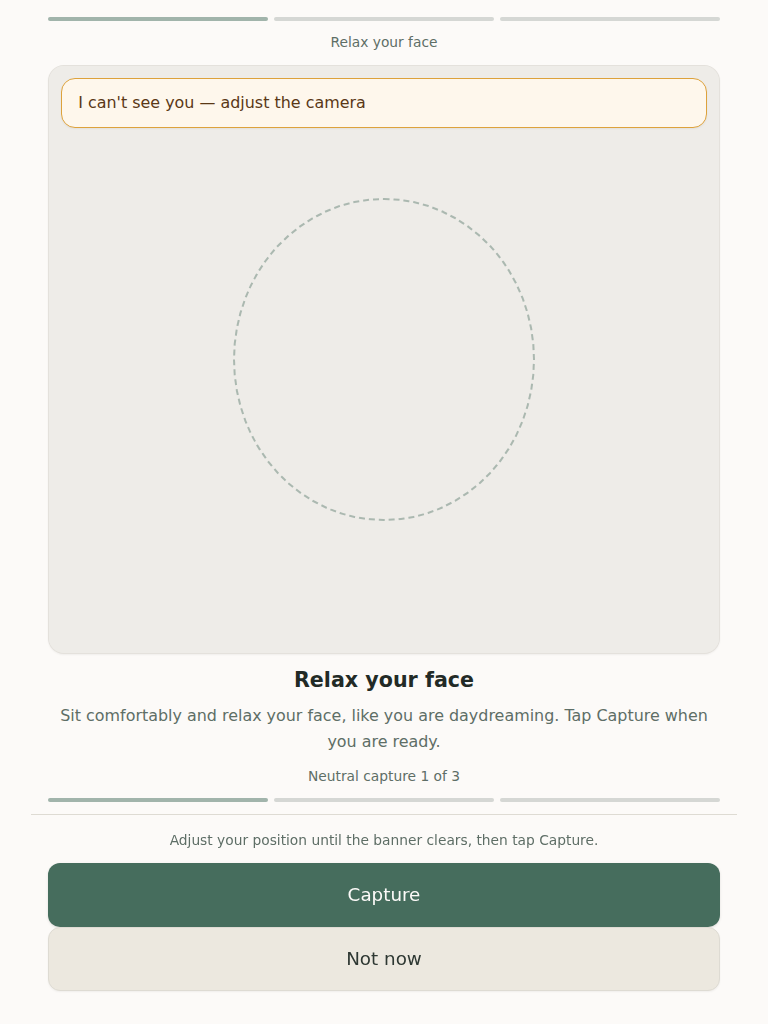
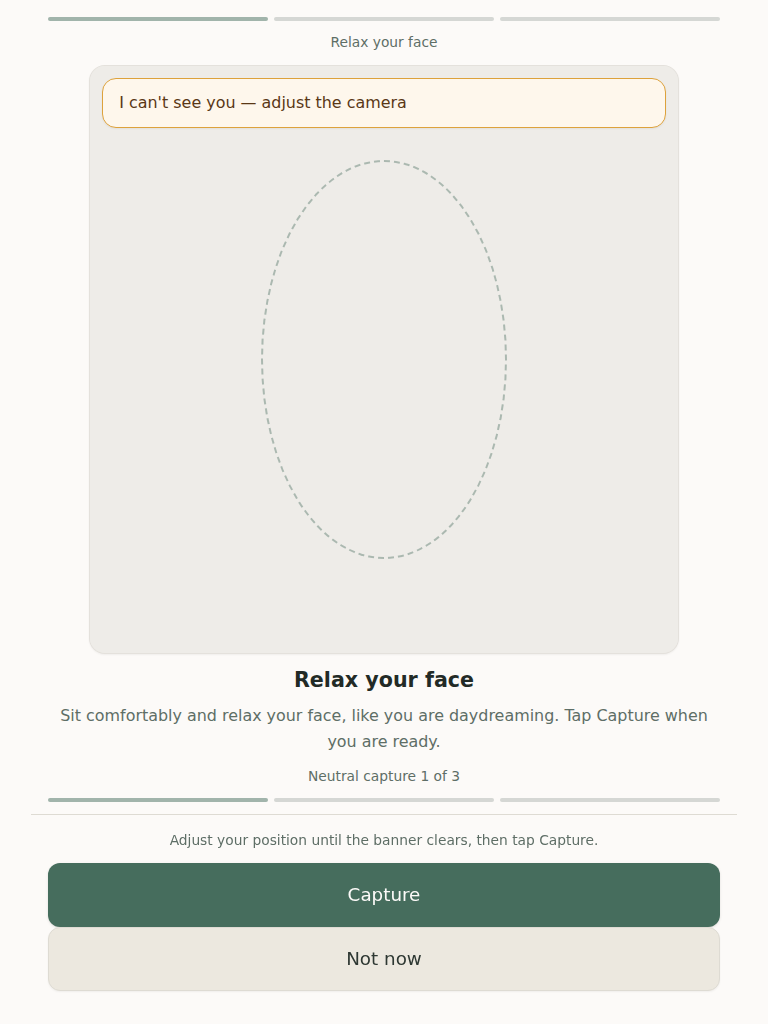
fix(craft): focus the capture frame

diff --git a/src/screens/calibration/CalibrationScreen.tsx b/src/screens/calibration/CalibrationScreen.tsx
@@ -357,17 +357,19 @@ export function CalibrationScreen() {
       className="mx-auto h-dvh max-w-standalone overflow-hidden py-xs sm:py-sm"
     >
       <CalibrationJourneyBar phase={step.phase} className="mb-3 shrink-0" />
-      <div className="relative min-h-0 flex-1 overflow-hidden rounded-2xl border border-border/60 bg-muted shadow-sm">
-        <CameraPreview
-          ref={previewRef}
-          isCapturing={isCapturing}
-          dimmed={settings.reducedFacePreview}
-          className="h-full max-h-none aspect-auto rounded-none border-0"
-        />
-        <QualityBanner
-          quality={quality}
-          className="absolute inset-x-3 top-3 z-10 shadow-sm"
-        />
+      <div className="flex min-h-0 flex-1 items-center justify-center [container-type:size]">
+        <div className="capture-frame relative overflow-hidden rounded-2xl border border-border/60 bg-muted shadow-sm">
+          <CameraPreview
+            ref={previewRef}
+            isCapturing={isCapturing}
+            dimmed={settings.reducedFacePreview}
+            className="h-full max-h-none aspect-auto rounded-none border-0"
+          />
+          <QualityBanner
+            quality={quality}
+            className="absolute inset-x-3 top-3 z-10 shadow-sm"
+          />
+        </div>
       </div>
       <div className="shrink-0 space-y-3 pt-3">
         <InstructionCard

diff --git a/src/screens/session/SessionScreen.tsx b/src/screens/session/SessionScreen.tsx
@@ -97,7 +97,8 @@ export function SessionScreen() {
           ) : null}
         </div>
 
-        <div className="relative min-h-0 flex-1 overflow-hidden rounded-2xl border border-border/60 bg-muted shadow-sm">
+        <div className="flex min-h-0 flex-1 items-center justify-center [container-type:size]">
+          <div className="capture-frame relative overflow-hidden rounded-2xl border border-border/60 bg-muted shadow-sm">
           <CameraPreview
             ref={s.previewRef}
             dimmed={s.reducedFacePreview}
@@ -159,6 +160,7 @@ export function SessionScreen() {
             closeAriaLabel={strings.session.teach.closeAriaLabel}
             onClose={s.hideTeach}
           />
+          </div>
         </div>
 
         {s.phase === 'active' ? (

diff --git a/src/components/camera/CameraPreview.tsx b/src/components/camera/CameraPreview.tsx
@@ -47,7 +47,7 @@ export const CameraPreview = forwardRef<HTMLVideoElement, CameraPreviewProps>(
           >
             <div
               className={cn(
-                'h-[55%] w-[45%] rounded-[50%] border-2 border-dashed border-primary/40 transition-opacity duration-200',
+                'h-[68%] w-[42%] rounded-[50%] border-2 border-dashed border-primary/40 transition-opacity duration-200',
                 dimmed && 'opacity-60',
               )}
             />

diff --git a/src/index.css b/src/index.css
@@ -119,4 +119,13 @@
   .fluid-grid > * {
     min-width: 0;
   }
+
+  /* Capture stages yield their height to critical chrome. Size the focused
+     square camera frame from that available height instead of stretching it
+     into a desktop-wide webcam strip. */
+  .capture-frame {
+    width: 100%;
+    width: min(100%, 100cqh);
+    aspect-ratio: 1;
+  }
 }
